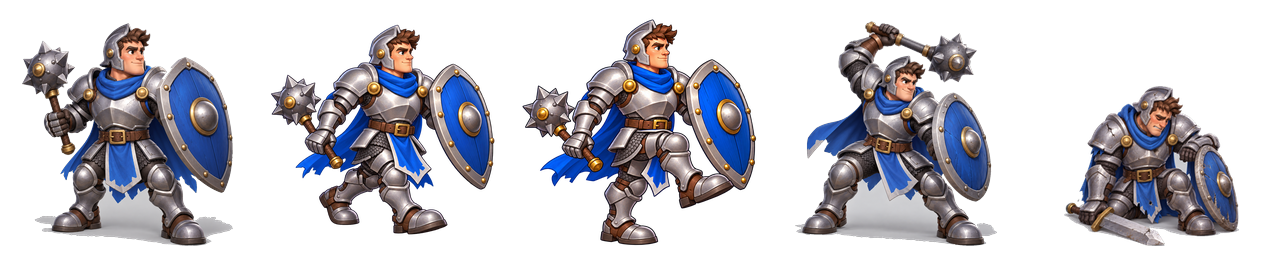
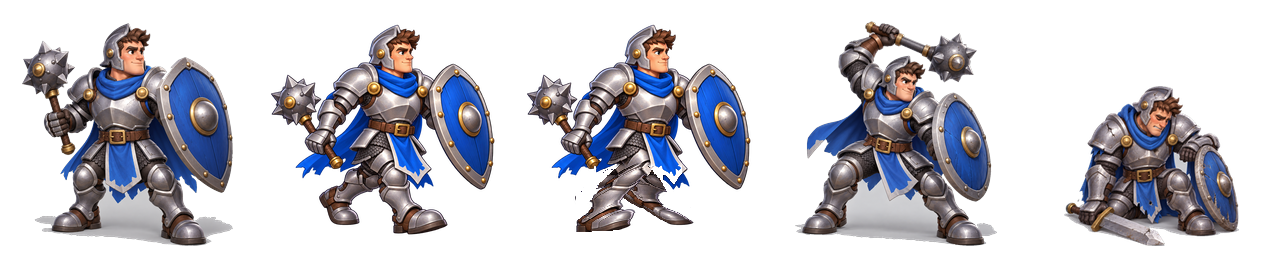
Repair guardian alternating-leg walk from original sprite pixels

Changed region(s): [[0.4062, 0.0625, 0.5938, 0.9688]]

diff --git a/src/art/registry.ts b/src/art/registry.ts
@@ -46,7 +46,7 @@ export interface TextureSpec {
 // The query is intentional. Painted files are stable public URLs rather than
 // Vite-hashed imports, so a version here guarantees that a deployed art pass
 // cannot be hidden behind an older service-worker entry.
-export const PAINTED_MANIFEST_URL = 'assets/painted/manifest.json?v=regional-environment-38';
+export const PAINTED_MANIFEST_URL = 'assets/painted/manifest.json?v=regional-environment-39';
 
 function specs(drawn: ReadonlySet<string> = new Set()): TextureSpec[] {
   const out: TextureSpec[] = [];

diff --git a/docs/WALK_CYCLE_QA.md b/docs/WALK_CYCLE_QA.md
@@ -2,14 +2,13 @@
 
 All 34 manifest entries whose movement animation points to two frames (`walk: [1, 2]`) were inspected at full sheet resolution. The frame mapping alone does not prove alternate legs.
 
-## Repair required: 21 grounded characters
+## Repair required: 20 grounded characters
 
 In every pair below, the same anatomical leg appears ahead in both movement cells, even when the stride or knee height changes. These sheets must not be counted as completed alternating-leg walks.
 
 - `unit.goblin.frames`
 - `unit.goblin_bomber.frames`
 - `unit.goblin_runner.frames`
-- `unit.guardian.frames`
 - `unit.hobgoblin.frames`
 - `unit.shaman.frames`
 - `unit.cutthroat.frames`
@@ -44,7 +43,7 @@ These have visibly different wing or trailing-form silhouettes across the two mo
 - `unit.black_hawk.frames`
 - `unit.succubus.frames`
 
-The militia and archer sheets were repaired by compositing each character's own lower-body pixels: the near leg trails and the far leg leads in the second frame, with right-facing boots and unchanged upper bodies. Both were reviewed at 256 px, 96 px, and 6 fps. The arbalest remains on `walk: [0]`. Several generated arbalest and militia replacement drafts repeated the leading leg and were rejected before import. The 21 defects above add to, rather than replace, the manifest entries still using idle as their walk.
+The militia, archer and guardian sheets were repaired by compositing each character's own lower-body pixels: the near leg trails and the far leg leads in the second frame, with right-facing boots and unchanged upper bodies. All three were reviewed at 256 px, 96 px, and 6 fps. The guardian's upper 160 rows and shield pixels were checked byte-for-byte against its source frame. The arbalest remains on `walk: [0]`. Several generated arbalest and militia replacement drafts repeated the leading leg and were rejected before import. The 20 defects above add to, rather than replace, the manifest entries still using idle as their walk.
 
 ## Acceptance gate for each new or repaired sheet
 
